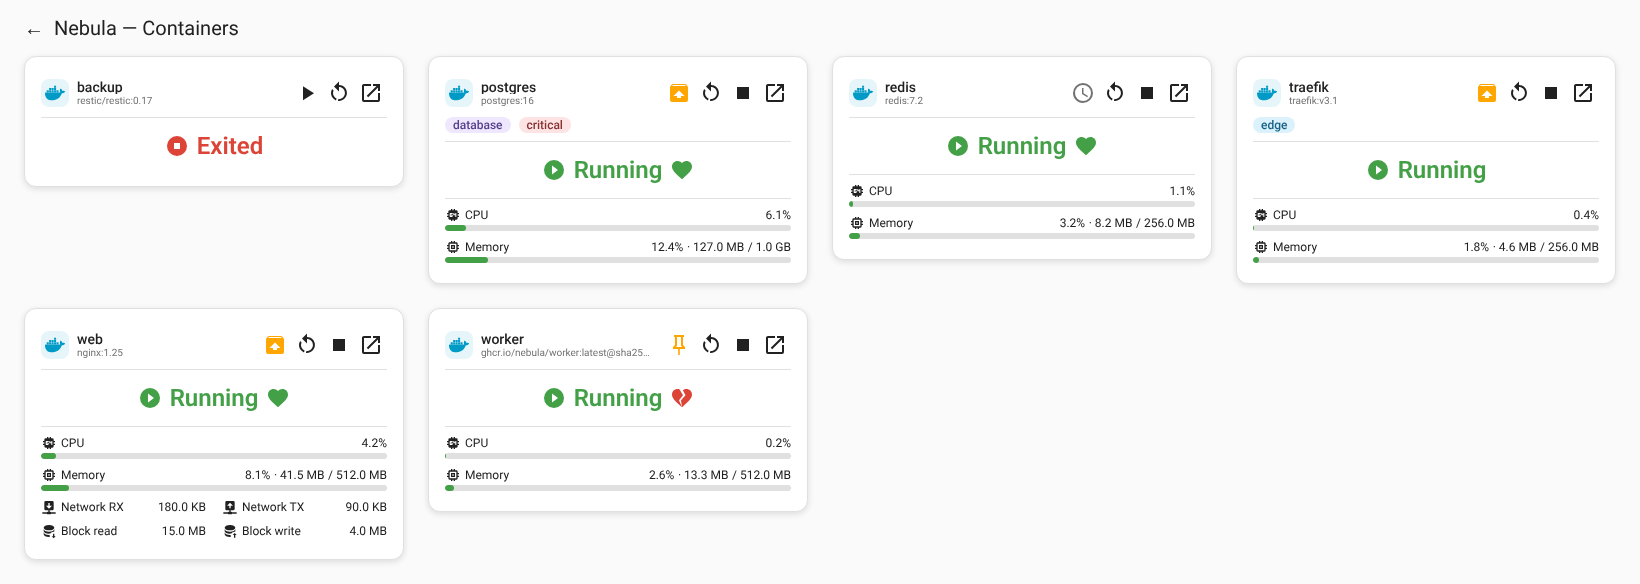
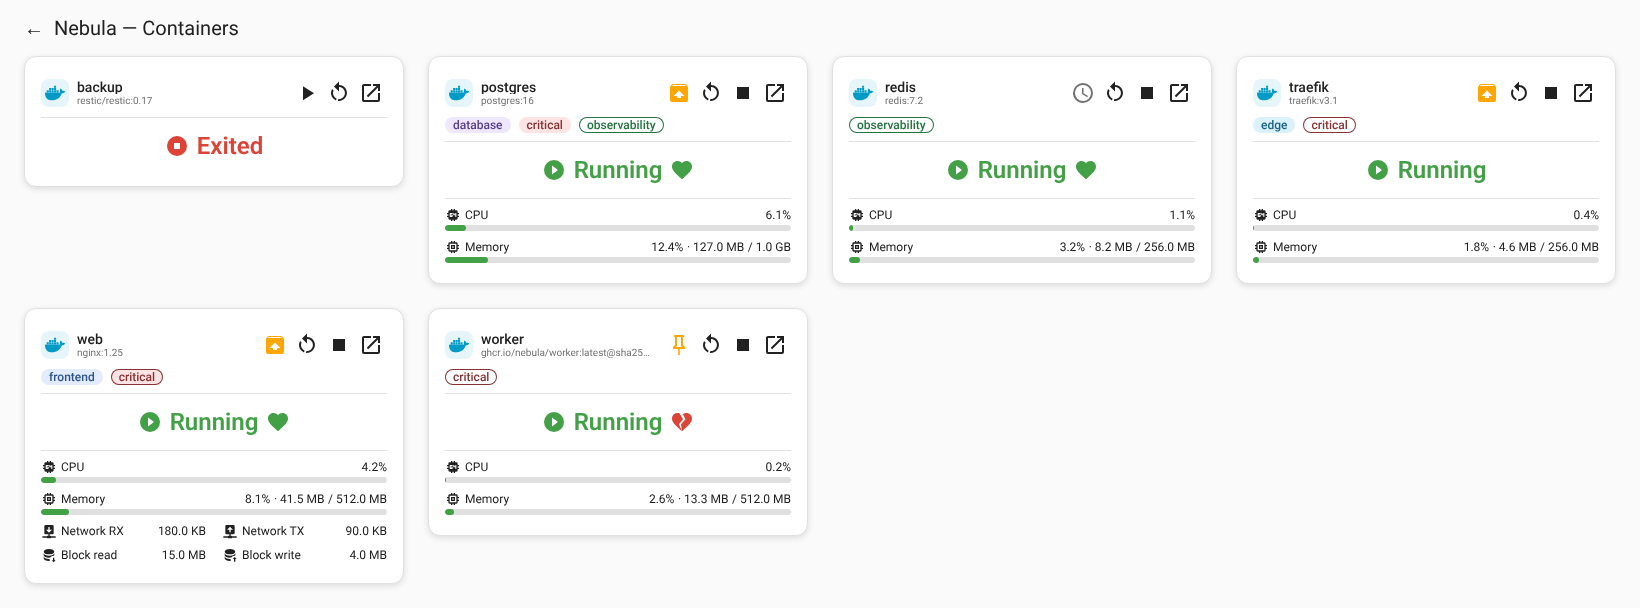
Show a stack's tags on its containers (#110)
Fixes #108.

- `containerTags()` (`common/tag-pills.ts`): a container's own tags,
then its stack's not already present, read from the stack's Status
sensor via the container device's parent (`via_device_id`). Nothing is
stored twice in Home Assistant; ha-dockhand 2.1 keeps container tags to
the container and stack tags to what's assigned to the stack
(raetha/ha-dockhand#110).
- Three looks: own = filled; stack only = outlined (`.from-stack`); both
= filled and outlined (`.also-stack`). The outline is an inset ring in
the pill's text colour, so pill sizes don't change and the ring never
matches the fill. Tooltips name the stack (new strings in every locale).
- Containers/Updates Tags filter includes stack tags, as Dockhand's
filter does. Two filter tests updated: the harness's `core` stack is
tagged `critical`, so its containers now match.
- Mock data: `web` gets its own `critical` (also on `core`) and
`frontend`, so screenshots show all three looks; tag screenshots
regenerated.
- a11y.py: 0 violations in both themes.
- Docs: "Tags from the stack" in `docs/cards/containers.md`, plus
container.md, styling.md, architecture.md; backlog: stack roll-up and a
hide setting, only if asked.

Version 2.1.0 (minor: new look and filter behaviour).

---
_Generated by [Claude Code](https://claude.ai/code)_

---------

diff --git a/src/common/tag-pills.ts b/src/common/tag-pills.ts
@@ -1,11 +1,18 @@
 import { html, nothing, type TemplateResult } from 'lit';
 import type { HassEntity } from 'home-assistant-js-websocket';
+import type { HomeAssistant } from './ha-types';
+import { getStackName, isStackDevice } from './device-utils';
+import { resolveStackEntities } from './entity-resolver';
+import { t } from './i18n-card';
 
 /** A Dockhand tag (ha-dockhand 2.0+): a name, and the colour the user
- * picked for it in Dockhand. */
+ * picked for it in Dockhand. `stack` names the stack it comes from on a
+ * container, and `own` says the container has it too. */
 export interface DockhandTag {
   name: string;
   color?: string;
+  stack?: string;
+  own?: boolean;
 }
 
 // The attribute carries Dockhand's palette as `#rrggbb`; anything else is
@@ -26,23 +33,49 @@ export function entityTags(stateObj: HassEntity | undefined): DockhandTag[] {
     });
 }
 
+/** A container's tags as Dockhand's containers list shows them by default:
+ * its own (ha-dockhand 2.1+ keeps them to the container), then the ones
+ * assigned to its stack that it doesn't have, read from the stack's own
+ * Status sensor (the container device's parent) so they aren't stored
+ * twice. A tag on both stays where the container has it, marked as on the
+ * stack too. */
+export function containerTags(hass: HomeAssistant, deviceId: string | undefined, stateObj: HassEntity | undefined): DockhandTag[] {
+  const own = entityTags(stateObj);
+  const device = deviceId ? hass.devices?.[deviceId] : undefined;
+  const parent = device?.via_device_id ? hass.devices?.[device.via_device_id] : undefined;
+  const stack = parent && isStackDevice(parent) ? getStackName(parent) : null;
+  if (!parent || !stack) return own;
+  const fromStack = entityTags(resolveStackEntities(hass, parent.id, ['status']).found.status?.state);
+  const onStack = new Set(fromStack.map((tag) => tag.name.toLowerCase()));
+  const mine = new Set(own.map((tag) => tag.name.toLowerCase()));
+  return [
+    ...own.map((tag) => (onStack.has(tag.name.toLowerCase()) ? { ...tag, stack, own: true } : tag)),
+    ...fromStack.filter((tag) => !mine.has(tag.name.toLowerCase())).map((tag) => ({ ...tag, stack }))
+  ];
+}
+
 /** The same pill and colouring as an environment label: the tag's colour
  * mixed halfway toward the theme's text colour for the text, and at 15%
  * for the background, as in Dockhand. A tag without a colour gets the
  * plain pill. */
-export function renderTagPill(tag: DockhandTag): TemplateResult {
-  if (!tag.color) return html`<span class="label-pill tag-pill">${tag.name}</span>`;
-  const style = `color: color-mix(in srgb, ${tag.color} 50%, var(--primary-text-color)); background: rgb(from ${tag.color} r g b / 0.15);`;
-  return html`<span class="label-pill tag-pill" style=${style}>${tag.name}</span>`;
+export function renderTagPill(tag: DockhandTag, hass?: HomeAssistant): TemplateResult {
+  // From the stack only: outlined, no fill. On both: filled and outlined.
+  const fromStack = tag.stack !== undefined && !tag.own;
+  const cls = `label-pill tag-pill${fromStack ? ' from-stack' : tag.stack !== undefined ? ' also-stack' : ''}`;
+  const title =
+    tag.stack === undefined || !hass ? nothing : t(hass, fromStack ? 'tag_from_stack' : 'tag_also_on_stack', { stack: tag.stack });
+  const style = tag.color
+    ? `color: color-mix(in srgb, ${tag.color} 50%, var(--primary-text-color));${fromStack ? '' : ` background: rgb(from ${tag.color} r g b / 0.15);`}`
+    : nothing;
+  return html`<span class=${cls} style=${style} title=${title}>${tag.name}</span>`;
 }
 
-/** Every tag of an entity as pills on a list row, or nothing. The group
+/** Tags as pills on a list row, or nothing. The group
  * gives way before the row's name does (see `.tag-pills`); when they don't
  * all fit, RowFitController shows the one pill with their count instead. */
-export function renderTagPills(stateObj: HassEntity | undefined): TemplateResult | typeof nothing {
-  const tags = entityTags(stateObj);
+export function renderTagPills(tags: DockhandTag[], hass?: HomeAssistant): TemplateResult | typeof nothing {
   if (!tags.length) return nothing;
-  return html`<span class="tag-pills">${tags.map(renderTagPill)}</span
+  return html`<span class="tag-pills">${tags.map((tag) => renderTagPill(tag, hass))}</span
     ><span class="label-pill tag-summary" title=${tags.map((tag) => tag.name).join(', ')}
       ><ha-icon icon="mdi:tag-multiple-outline"></ha-icon>${tags.length}</span
     >`;
@@ -50,7 +83,6 @@ export function renderTagPills(stateObj: HassEntity | undefined): TemplateResult
 
 /** The tags as their own row under a single Stack or Container card's
  * header, like the Environment card's labels, or nothing. */
-export function renderTagRow(stateObj: HassEntity | undefined): TemplateResult | typeof nothing {
-  const tags = entityTags(stateObj);
-  return tags.length ? html`<div class="label-row tag-row">${tags.map(renderTagPill)}</div>` : nothing;
+export function renderTagRow(tags: DockhandTag[], hass?: HomeAssistant): TemplateResult | typeof nothing {
+  return tags.length ? html`<div class="label-row tag-row">${tags.map((tag) => renderTagPill(tag, hass))}</div>` : nothing;
 }

diff --git a/src/common/tag-pills.dom.test.ts b/src/common/tag-pills.dom.test.ts
@@ -5,7 +5,7 @@ import { DockhandContainersCard } from '../dockhand-containers-card/card';
 import { DockhandStacksCard } from '../dockhand-stacks-card/card';
 import { DockhandContainerCard } from '../dockhand-container-card/card';
 import { DockhandStackCard } from '../dockhand-stack-card/card';
-import { entityTags, renderTagPill } from './tag-pills';
+import { containerTags, entityTags, renderTagPill } from './tag-pills';
 import { makeDevice, makeEntity, makeHass, makeState } from './test-fixtures';
 import type { HomeAssistant } from './ha-types';
 import { mount as mountTag, type Lit } from './mount.test-helpers';
@@ -92,6 +92,73 @@ describe.each([
     el.remove();
     el = await mount(single, hassWith(kind, {}), { device_id: 'dev-web' });
     expect(el.shadowRoot!.querySelector('.tag-row')).toBeNull();
+    el.remove();
+  });
+});
+
+// A container in stack `app`: its own `media` and `critical`, and the stack's
+// `critical` and `db` (github.com/raetha/ha-dockhand-cards/issues/108).
+function hassInStack(): HomeAssistant {
+  const stack = makeDevice({ id: 'dev-app', identifiers: [['dockhand', 'entry_stack_1_app']], config_entry_id: 'entry', name: 'app', via_device_id: 'env-device' });
+  const web = makeDevice({ id: 'dev-web', identifiers: [['dockhand', 'entry_container_1_web']], config_entry_id: 'entry', name: 'web', via_device_id: 'dev-app' });
+  const lone = makeDevice({ id: 'dev-lone', identifiers: [['dockhand', 'entry_container_1_lone']], config_entry_id: 'entry', name: 'lone', via_device_id: 'env-device' });
+  return makeHass({
+    devices: [env, stack, web, lone],
+    entities: [
+      makeEntity({ entity_id: 'sensor.app_status', device_id: 'dev-app', translation_key: 'status' }),
+      makeEntity({ entity_id: 'sensor.web_state', device_id: 'dev-web', translation_key: 'state' }),
+      makeEntity({ entity_id: 'sensor.lone_state', device_id: 'dev-lone', translation_key: 'state' })
+    ],
+    states: [
+      makeState({ entity_id: 'sensor.app_status', state: 'running', attributes: { tags: ['Critical', 'db'], tag_colors: { Critical: '#ef4444', db: '#22c55e' } } }),
+      makeState({ entity_id: 'sensor.web_state', state: 'running', attributes: { tags: ['media', 'critical'], tag_colors: { media: '#3b82f6', critical: '#ef4444' } } }),
+      makeState({ entity_id: 'sensor.lone_state', state: 'running', attributes: { tags: [], tag_colors: {} } })
+    ]
+  });
+}
+
+describe("a stack's tags on its containers", () => {
+  it('come after the container’s own, a tag on both staying the container’s', () => {
+    const hass = hassInStack();
+    expect(containerTags(hass, 'dev-web', hass.states['sensor.web_state'])).toEqual([
+      { name: 'media', color: '#3b82f6' },
+      { name: 'critical', color: '#ef4444', stack: 'app', own: true },
+      { name: 'db', color: '#22c55e', stack: 'app' }
+    ]);
+    expect(containerTags(hass, 'dev-lone', hass.states['sensor.lone_state'])).toEqual([]);
+    expect(containerTags(hass, undefined, hass.states['sensor.web_state'])).toHaveLength(2);
+  });
+
+  it('draw filled, outlined, or filled and outlined, saying where they come from', () => {
+    const hass = hassInStack();
+    const host = document.createElement('div');
+    render(containerTags(hass, 'dev-web', hass.states['sensor.web_state']).map((tag) => renderTagPill(tag, hass)), host);
+    const [own, both, stack] = host.querySelectorAll('.tag-pill');
+    expect(own.className).toBe('label-pill tag-pill');
+    expect(own.hasAttribute('title')).toBe(false);
+    expect(both.className).toBe('label-pill tag-pill also-stack');
+    expect(both.getAttribute('title')).toBe('Also on stack app');
+    expect(both.getAttribute('style')).toContain('background');
+    expect(stack.className).toBe('label-pill tag-pill from-stack');
+    expect(stack.getAttribute('title')).toBe('From stack app');
+    expect(stack.getAttribute('style')).not.toContain('background');
+  });
+
+  it('show on the Containers and Container cards, and the tag filter matches them', async () => {
+    const hass = hassInStack();
+    let el = await mount('containers', hass, { device_id: 'env-device' });
+    expect(pills(el)).toEqual(['media', 'critical', 'db']);
+    expect(el.shadowRoot!.querySelectorAll('.tag-pill.from-stack')).toHaveLength(1);
+    el.remove();
+    el = await mount('container', hass, { device_id: 'dev-web' });
+    expect(pills(el)).toEqual(['media', 'critical', 'db']);
+    el.remove();
+    el = await mount('containers', hass, { device_id: 'env-device', filters: { tags: ['db'] } });
+    expect(el.shadowRoot!.querySelectorAll('.row-left')).toHaveLength(1);
+    el.remove();
+    el = await mount('stacks', hass, { device_id: 'env-device' });
+    expect(pills(el)).toEqual(['Critical', 'db']);
+    expect(el.shadowRoot!.querySelectorAll('.tag-pill.from-stack, .tag-pill.also-stack')).toHaveLength(0);
     el.remove();
   });
 });

diff --git a/src/filters.dom.test.ts b/src/filters.dom.test.ts
@@ -33,16 +33,18 @@ describe('Containers card filters', () => {
   });
 
   it('excludes with "is not", and picks "no health check" and "no tags" on purpose', async () => {
-    expect(names(await mount('containers', { ...nebula, filters: { tags: { not: ['critical', 'edge'] } } }))).toEqual(['backup', 'redis', 'web', 'worker']);
+    // web and worker are in the `core` stack, tagged critical (issue #108).
+    expect(names(await mount('containers', { ...nebula, filters: { tags: { not: ['critical', 'edge'] } } }))).toEqual(['backup', 'redis']);
     expect(names(await mount('containers', { ...nebula, filters: { health: ['(none)'] } }))).toEqual(['backup', 'traefik']);
     expect(names(await mount('containers', { ...nebula, filters: { update: ['up_to_date', 'pinned'] } }))).toEqual(['backup', 'worker']);
   });
 
   it('keeps problems in view with Always show problems', async () => {
     const filters = { tags: ['critical'] };
-    expect(names(await mount('containers', { ...nebula, filters }))).toEqual(['postgres']);
-    // backup exited with an error, worker is unhealthy.
-    expect(names(await mount('containers', { ...nebula, filters, always_show_problems: true }))).toEqual(['backup', 'postgres', 'worker']);
+    // traefik, web and worker by their `core` stack's tag.
+    expect(names(await mount('containers', { ...nebula, filters }))).toEqual(['postgres', 'traefik', 'web', 'worker']);
+    // backup exited with an error.
+    expect(names(await mount('containers', { ...nebula, filters, always_show_problems: true }))).toEqual(['backup', 'postgres', 'traefik', 'web', 'worker']);
   });
 
   it('says when nothing matches, and can leave out the count', async () => {

diff --git a/src/common/list-filters.ts b/src/common/list-filters.ts
@@ -11,7 +11,7 @@ import { NONE, type FilterExtractor } from './filters';
 import { findPrimaryEntityByDomain, resolveContainerEntities } from './entity-resolver';
 import { getStackNameForContainerDevice } from './device-utils';
 import { updateStatus } from './update-kind';
-import { entityTags } from './tag-pills';
+import { containerTags, entityTags } from './tag-pills';
 import { t } from './i18n-card';
 
 const KNOWN = (state: string | undefined): state is string => !!state && state !== 'unknown' && state !== 'unavailable';
@@ -49,7 +49,11 @@ export function containerUpdateValues(hass: HomeAssistant, deviceId: string): st
 
 export function tagValues(stateObj: HassEntity | undefined): string[] {
   if (!stateObj) return [];
-  const names = entityTags(stateObj).map((tag) => tag.name);
+  return namesOrNone(entityTags(stateObj));
+}
+
+function namesOrNone(tags: { name: string }[]): string[] {
+  const names = tags.map((tag) => tag.name);
   return names.length ? names : [NONE];
 }
 
@@ -69,7 +73,11 @@ export function containerFilters<Row>(deviceIdOf: (row: Row) => string | undefin
     health: ((row, hass) => containerHealthValues(entities(hass, row).health?.state)) as FilterExtractor<Row>,
     stack: onDevice(containerStackValues),
     update: onDevice(containerUpdateValues),
-    tags: ((row, hass) => tagValues(entities(hass, row).state?.state)) as FilterExtractor<Row>
+    // A stack's tags count as its containers' too, as in Dockhand's filter.
+    tags: ((row, hass) => {
+      const state = entities(hass, row).state?.state;
+      return state ? namesOrNone(containerTags(hass, deviceIdOf(row), state)) : [];
+    }) as FilterExtractor<Row>
   };
 }
 

diff --git a/src/dockhand-containers-card/card.ts b/src/dockhand-containers-card/card.ts
@@ -20,7 +20,7 @@ import { DEFAULT_CONTAINERS_BADGES, type DockhandContainersCardConfig, type Cont
 import { renderRowControls, renderActionsColumn, resolveDeviceControls, rowControlSlots } from '../common/device-controls';
 import { applyFilters } from '../common/filters';
 import { containerFilters, containerStateValues, renderFilteredNote } from '../common/list-filters';
-import { renderTagPills } from '../common/tag-pills';
+import { containerTags, renderTagPills } from '../common/tag-pills';
 import { cell, renderAlignedList, shownColumns } from '../common/aligned-list';
 import { cardStyles } from './styles';
 import { RowFitController } from '../common/row-fit';
@@ -406,7 +406,7 @@ export class DockhandContainersCard extends LitElement implements LovelaceCard {
           <ha-icon class="row-icon ${stateIcon.cls}" icon=${stateIcon.icon} title=${stateLabel(this._hass, 'container_state', st, found.state!.state)}></ha-icon>
           <span class="item-name">${row.name}</span>
           ${visible.has('environment') ? html`<span class="label-pill name-label">${row.environment}</span>` : nothing}
-          ${visible.has('tags') ? renderTagPills(found.state!.state) : nothing}
+          ${visible.has('tags') ? renderTagPills(containerTags(this._hass!, row.deviceId, found.state!.state), this._hass) : nothing}
         </div>
         ${columns.map(column)}
       </div>

diff --git a/src/dockhand-stacks-card/card.ts b/src/dockhand-stacks-card/card.ts
@@ -17,7 +17,7 @@ import { DEFAULT_STACKS_BADGES, type DockhandStacksCardConfig, type StacksGroupB
 import { renderRowControls, renderActionsColumn, resolveDeviceControls, rowControlSlots } from '../common/device-controls';
 import { applyFilters, type FilterExtractor } from '../common/filters';
 import { renderFilteredNote, tagValues } from '../common/list-filters';
-import { renderTagPills } from '../common/tag-pills';
+import { entityTags, renderTagPills } from '../common/tag-pills';
 import { cell, renderAlignedList, shownColumns } from '../common/aligned-list';
 import { cardStyles } from './styles';
 import { RowFitController } from '../common/row-fit';
@@ -390,7 +390,7 @@ export class DockhandStacksCard extends LitElement implements LovelaceCard {
           <span class="item-name">${row.name}</span>
           ${visible.has('type') ? html`<span class="label-pill name-label">${stateLabel(this._hass, 'stack_type', row.type)}</span>` : nothing}
           ${visible.has('environment') ? html`<span class="label-pill name-label">${row.environment}</span>` : nothing}
-          ${visible.has('tags') ? renderTagPills(found.status?.state) : nothing}
+          ${visible.has('tags') ? renderTagPills(entityTags(found.status?.state)) : nothing}
         </div>
         ${columns.map((key) => this._renderCell(key, row))}
       </div>

diff --git a/src/dockhand-container-card/card.ts b/src/dockhand-container-card/card.ts
@@ -19,7 +19,7 @@ import { renderSettingsLink, renderIcon } from '../common/icon';
 import { CONTAINER_STATE, UNKNOWN_CONTAINER_STATE, HEALTH_ICON, HEALTH_STATUS_CLASS, DEFAULT_CONTAINER_ICON, UPDATE_PENDING_VERSION } from '../common/const';
 import { renderHeaderControls, resolveDeviceControls } from '../common/device-controls';
 import { DEFAULT_CONTAINER_SECTIONS, type DockhandContainerCardConfig } from './types';
-import { renderTagRow } from '../common/tag-pills';
+import { containerTags, renderTagRow } from '../common/tag-pills';
 import { cardStyles } from './styles';
 
 export class DockhandContainerCard extends LitElement implements LovelaceCard {
@@ -156,7 +156,7 @@ export class DockhandContainerCard extends LitElement implements LovelaceCard {
               })}
             </div>
           </div>
-          ${renderTagRow(s.state?.state)}
+          ${renderTagRow(containerTags(this._hass, this._config.device_id, s.state?.state), this._hass)}
           <div class="divider"></div>
           ${this._renderBody(s)}
         </div>

diff --git a/src/dockhand-stack-card/card.ts b/src/dockhand-stack-card/card.ts
@@ -18,7 +18,7 @@ import { renderUpdateKindIcon, updateStatus, type UpdateStatus } from '../common
 import { joinWithDividers, mergeSections } from '../common/section-join';
 import { renderHeaderControls, resolveDeviceControls } from '../common/device-controls';
 import { DEFAULT_STACK_SECTIONS, type DockhandStackCardConfig } from './types';
-import { renderTagRow } from '../common/tag-pills';
+import { entityTags, renderTagRow } from '../common/tag-pills';
 import { cardStyles } from './styles';
 
 const STATUS_ICON: Record<string, string> = {
@@ -150,7 +150,7 @@ export class DockhandStackCard extends LitElement implements LovelaceCard {
               })}
             </div>
           </div>
-          ${renderTagRow(s.status?.state)}
+          ${renderTagRow(entityTags(s.status?.state))}
           <div class="divider"></div>
           ${this._renderBody(s, isGit, device)}
         </div>

diff --git a/src/common/shared-styles.ts b/src/common/shared-styles.ts
@@ -812,6 +812,17 @@ export const sharedStyles = css`
   .row.no-tags .row-left:has(.tag-pills) .item-name {
     flex-shrink: 1;
   }
+  /* Where a container's tag comes from (containerTags()): its own is
+   * filled, its stack's is outlined, one on both is filled and outlined.
+   * An inset ring keeps every pill the same size, and its colour follows
+   * the pill's text, so it's never the fill's own colour. */
+  .tag-pill.from-stack {
+    background: transparent;
+    box-shadow: inset 0 0 0 1px currentColor;
+  }
+  .tag-pill.also-stack {
+    box-shadow: inset 0 0 0 1px currentColor;
+  }
   .tag-pills {
     display: flex;
     gap: var(--ha-space-1, 4px);

diff --git a/src/i18n/fr.ts b/src/i18n/fr.ts
@@ -194,6 +194,8 @@ const card: Record<CardTranslationKey, string> = {
   git_sync_status_error: 'Erreur',
   msg_no_filter_matches: 'Rien ne correspond aux filtres de cette carte.',
   msg_no_updates_match: 'Aucune mise à jour ne correspond aux filtres de cette carte.',
+  tag_from_stack: 'Du stack {stack}',
+  tag_also_on_stack: 'Aussi sur le stack {stack}',
   filtered_hidden: 'Masqués par les filtres : {count}',
   stack_status_restarting: 'Redémarrage',
   msg_no_containers_yet: 'Aucun conteneur trouvé pour l’instant dans les environnements sélectionnés.',

diff --git a/src/i18n/es.ts b/src/i18n/es.ts
@@ -194,6 +194,8 @@ const card: Record<CardTranslationKey, string> = {
   git_sync_status_error: 'Error',
   msg_no_filter_matches: 'Nada coincide con los filtros de esta tarjeta.',
   msg_no_updates_match: 'Ninguna actualización coincide con los filtros de esta tarjeta.',
+  tag_from_stack: 'Del stack {stack}',
+  tag_also_on_stack: 'También en el stack {stack}',
   filtered_hidden: 'Ocultos por filtros: {count}',
   stack_status_restarting: 'Reiniciando',
   msg_no_containers_yet: 'Aún no se han encontrado contenedores en los entornos seleccionados.',

diff --git a/src/i18n/pt.ts b/src/i18n/pt.ts
@@ -194,6 +194,8 @@ const card: Record<CardTranslationKey, string> = {
   git_sync_status_error: 'Erro',
   msg_no_filter_matches: 'Nada corresponde aos filtros deste cartão.',
   msg_no_updates_match: 'Nenhuma atualização corresponde aos filtros deste cartão.',
+  tag_from_stack: 'Da stack {stack}',
+  tag_also_on_stack: 'Também na stack {stack}',
   filtered_hidden: 'Ocultos pelos filtros: {count}',
   stack_status_restarting: 'A reiniciar',
   msg_no_containers_yet: 'Ainda não foram encontrados contentores nos ambientes selecionados.',
